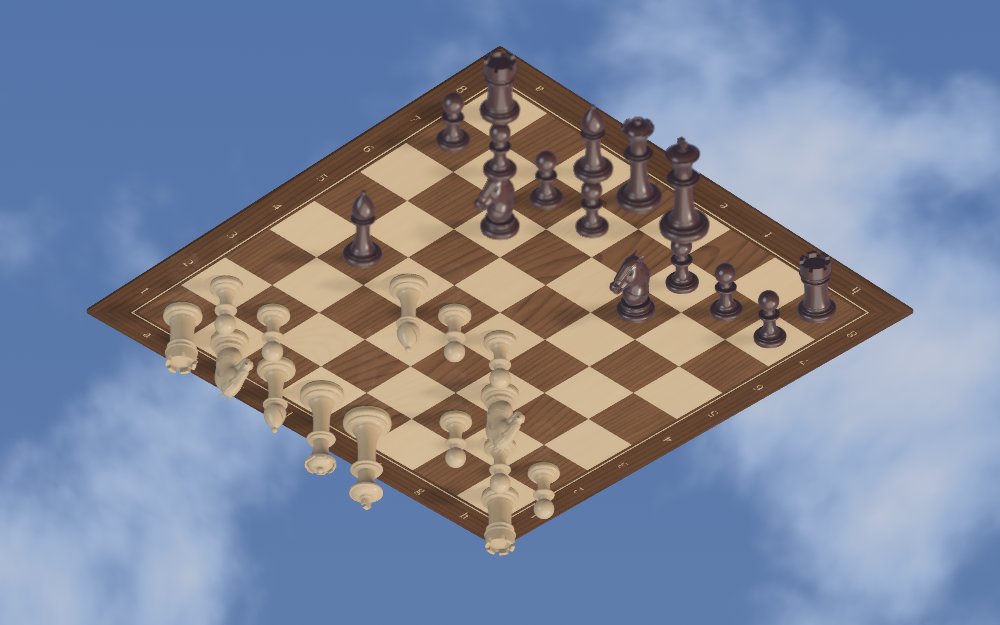
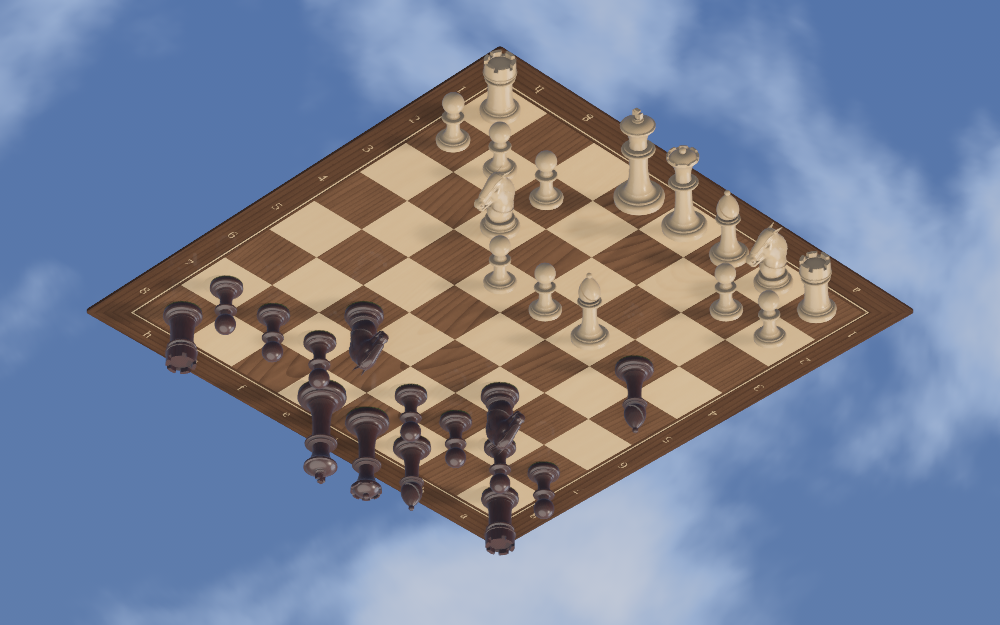
The Floating board: Solrac's pieces hang, and the tilt's limits (cjus/chessgui#910)
After Carlos's first look in the window: which side hangs is the game's, the camera tilts from where the illusion holds to overhead, and Flip shows the board from the other side. The picture is drawn again from Solrac's code.

diff --git a/book/src/playing.md b/book/src/playing.md
@@ -224,17 +224,18 @@ board, and its **3D** button there the 3D board; choose Notebook in Settings to 
 ## The Floating board
 
 **Settings → Chess Set → Main view → Floating board** shows your board afloat in a daytime sky,
-drawn as an optical illusion: your pieces hang beneath the board and the other side's stand on
-top of it, on the same face, every piece with its base on its square. The board is turned to a
-diamond, with your side toward the bottom of the picture.
+drawn as an optical illusion: Solrac's pieces hang beneath the board and yours stand on top of
+it, on the same face, every piece with its base on its square. When two people play, or Solrac
+plays both sides, Black's pieces hang. The board is turned to a diamond, with the hanging side
+toward the bottom of the picture.
 
 ![The Floating board](images/floating-board.png)
 
 You move as on the 3D board: click a piece, hanging or standing, and then a square, or drag it.
 The squares it can go to are marked, the last move and a king in check are lit, and arrows and
-rings from the chat are drawn on the board. The camera keys below turn and zoom it. The **Flip**
-button, or **View → Flip Board**, turns the board to the other side, and the pieces change
-places with it: the side at the bottom of the picture always hangs.
+rings from the chat are drawn on the board. The camera keys below turn and zoom it: it tilts up
+to a view from overhead, and down only as far as the illusion holds. The **Flip** button, or
+**View → Flip Board**, shows the board from the other side, with the same pieces hanging.
 
 It uses your chess set, pieces and board, and **Show board coordinates**. The room, the table,
 the chess clock and the captured pieces aren't drawn, and the sky is the view's own, whatever

diff --git a/book/src/preferences.md b/book/src/preferences.md
@@ -69,8 +69,8 @@ Two columns: **Board**, and **Chess clock** (3D board only).
 - **Main view**: **Automatic**, **3D board** (the photographic board and pieces), **2D board**
   (a large flat board, see [Playing a game](playing.md)), **Notebook** (the board and pieces
   drawn in ink on parchment, as a page of an inventor's notebook) or **Floating board** (the
-  board afloat in a daytime sky, as an optical illusion: your pieces hang beneath it and the
-  other side's stand on it). A line under
+  board afloat in a daytime sky, as an optical illusion: Solrac's pieces hang beneath it and
+  yours stand on it). A line under
   it says what Automatic chose. Automatic picks the 2D board on a computer with a weak graphics
   card, and never the Notebook or the Floating board; see
   [On a slower computer](slow-computers.md).
